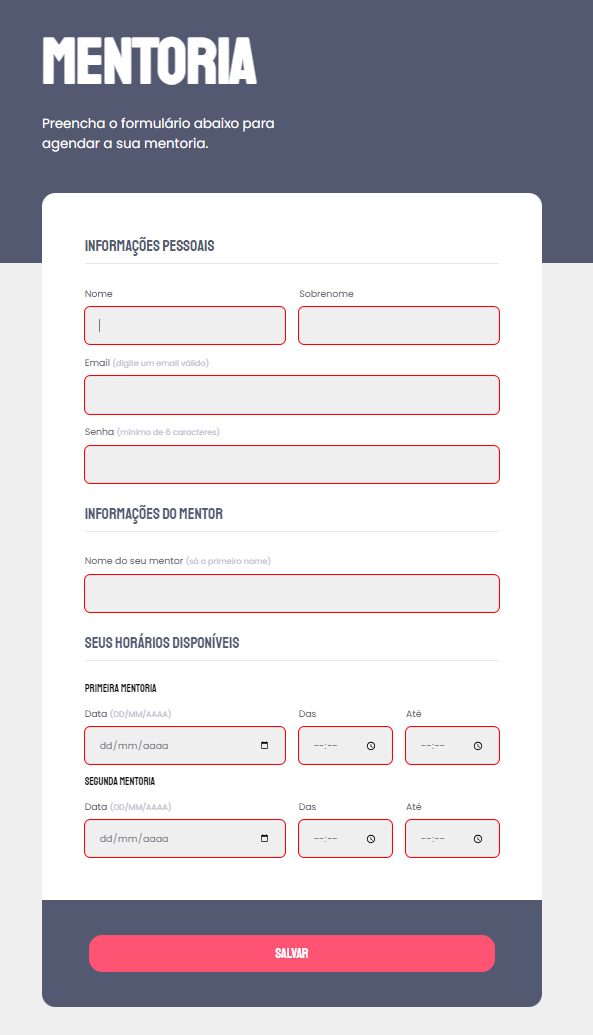
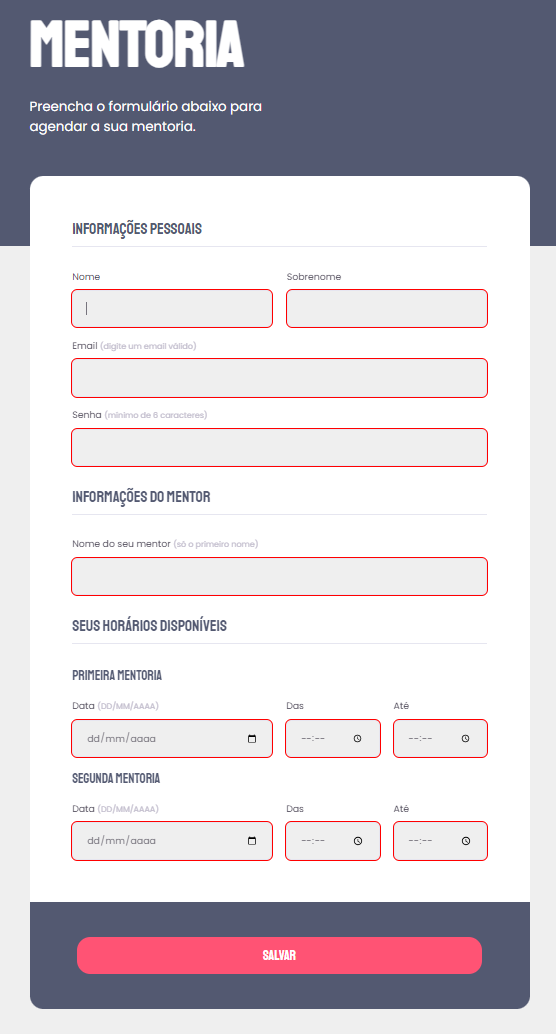
Fix: Properties from Primeira Mentoria and Segunda mentoria

diff --git a/style.css b/style.css
@@ -24,7 +24,7 @@ body::before {
 }
 
 h1,
-p,
+.fieldset-wrapper p,
 legend,
 button {
   font-family: "Staatliches", sans-serif;
@@ -44,7 +44,6 @@ header {
 }
 
 header p {
-  font-family: "Poppins", sans-serif;
   font-size: 20px;
   
   margin-top: 18px;
@@ -124,6 +123,13 @@ fieldset {
 .mentorship-date-wrapper-3col {
   display: flex;
   justify-content: space-between;
+}
+
+.fieldset-wrapper p {
+  color: #535971;
+  font-size: 20px;
+
+  line-height: 34px; 
 }
 
 .mentorship-date-wrapper-3col input {
